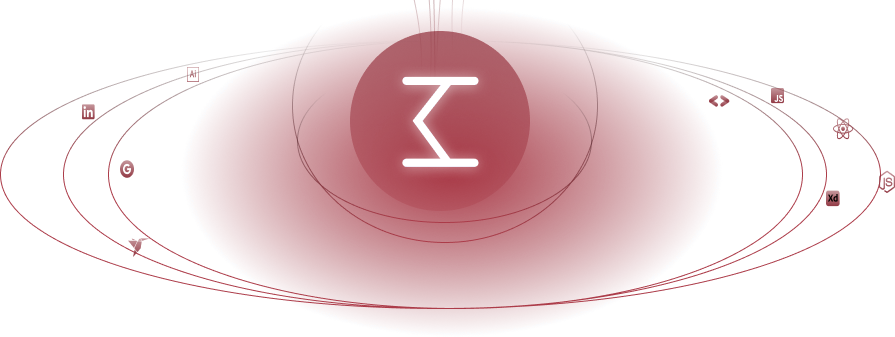
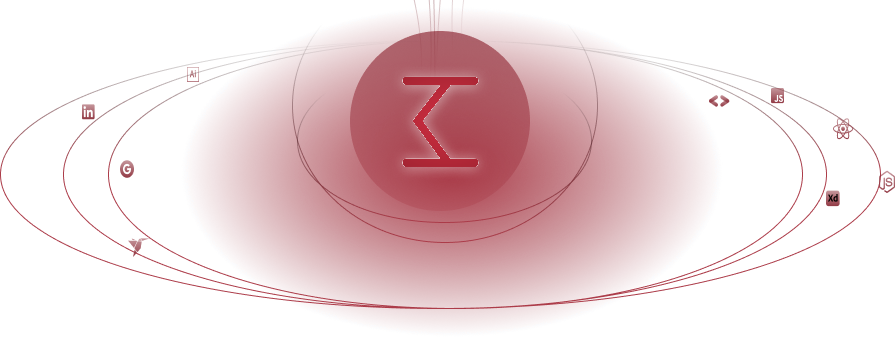
Paint over leftover white K in orbital orb and recenter drop
- illustration-orbital.png: replace the ~1900 residual white K pixels in the center orb with the ambient red glow color (ring-sampled, radial brightness preserved) so the drop has a clean red circle beneath it
- About.tsx: set top:35% so the drop's visual center lands on the orb center (was 45% which pushed it below)

Changed region(s): [[0.4525, 0.2077, 0.543, 0.4154], [0.4525, 0.4154, 0.543, 0.5045]]

diff --git a/app/components/About.tsx b/app/components/About.tsx
@@ -107,7 +107,7 @@ export default function About(): React.JSX.Element {
               className="absolute"
               style={{
                 left: "50%",
-                top: "36%",
+                top: "35%",
                 width: "11%",
                 height: "auto",
                 transform: "translate(-50%, -50%)",
